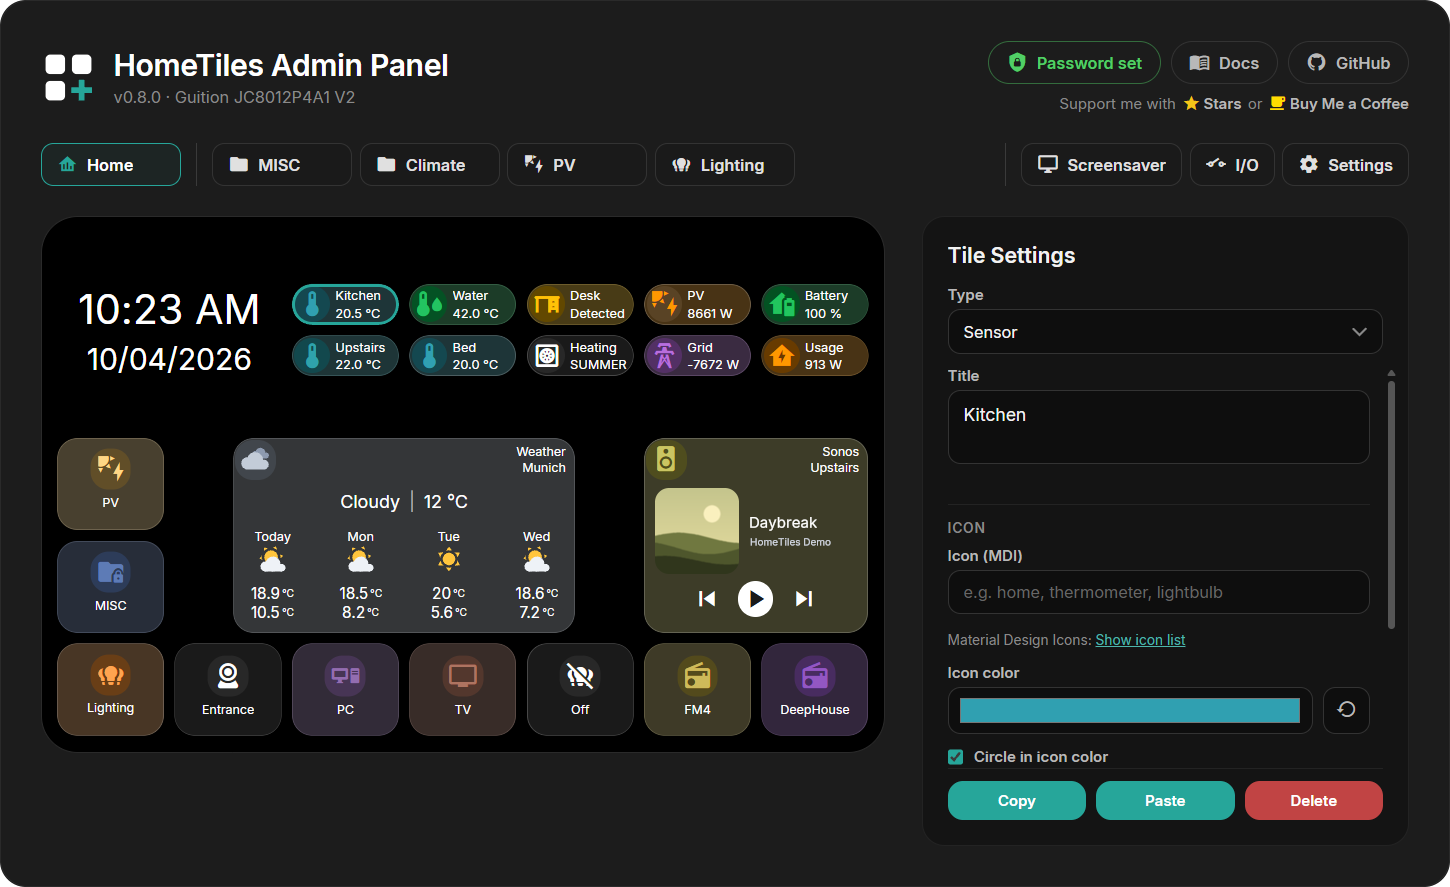
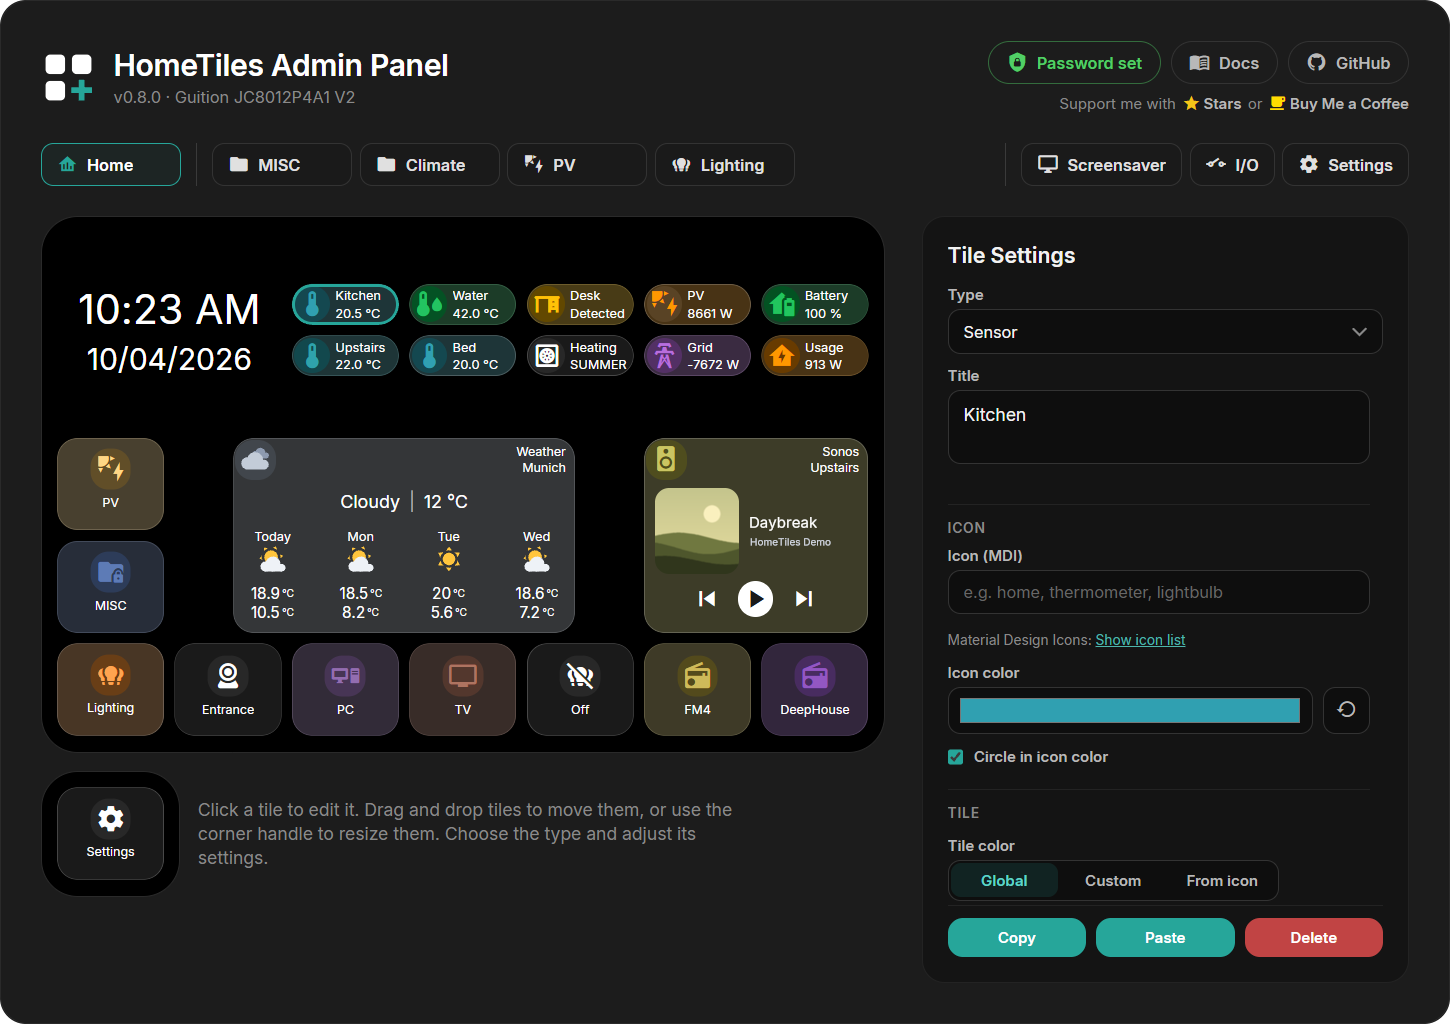
Keep the PIN popup and the Web Admin park zone in the README

diff --git a/docs/index.md b/docs/index.md
@@ -31,7 +31,7 @@ HomeTiles is free, open-source firmware that turns a supported touch display int
 - **Camera:** live video on ESP32-P4 displays; supported displays share their built-in camera with Home Assistant.
 
 <figure class="ht-screenshot">
-<img src="images/readme-popups-12.png" alt="Popups for lights, climate, fan, cover, media, weather, sensor history, energy, lock, binary sensor, alarm panel and camera" width="1962" height="1485" loading="lazy">
+<img src="images/readme-popups-12.png" alt="Popups for lights, climate, fan, cover, media, weather, sensor history, energy, lock, PIN, alarm panel and camera" width="1962" height="1485" loading="lazy">
 <figcaption>Popups</figcaption>
 </figure>
 

diff --git a/README.md b/README.md
@@ -23,7 +23,7 @@ Every tile opens a popup with its controls and history.
 
 ### Popups
 
-<img src="docs/images/readme-popups-12.png" alt="Popups for lights, climate, fan, cover, media, weather, sensor history, energy, lock, binary sensor, alarm panel and camera" width="100%">
+<img src="docs/images/readme-popups-12.png" alt="Popups for lights, climate, fan, cover, media, weather, sensor history, energy, lock, PIN, alarm panel and camera" width="100%">
 
 ### Tiles
 
